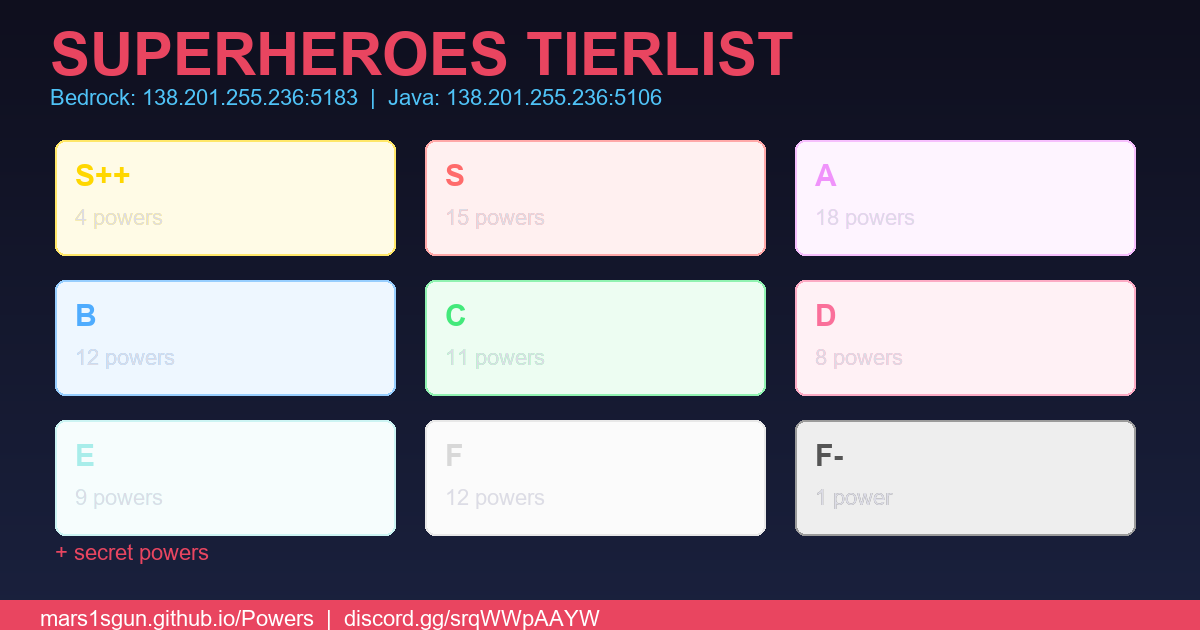
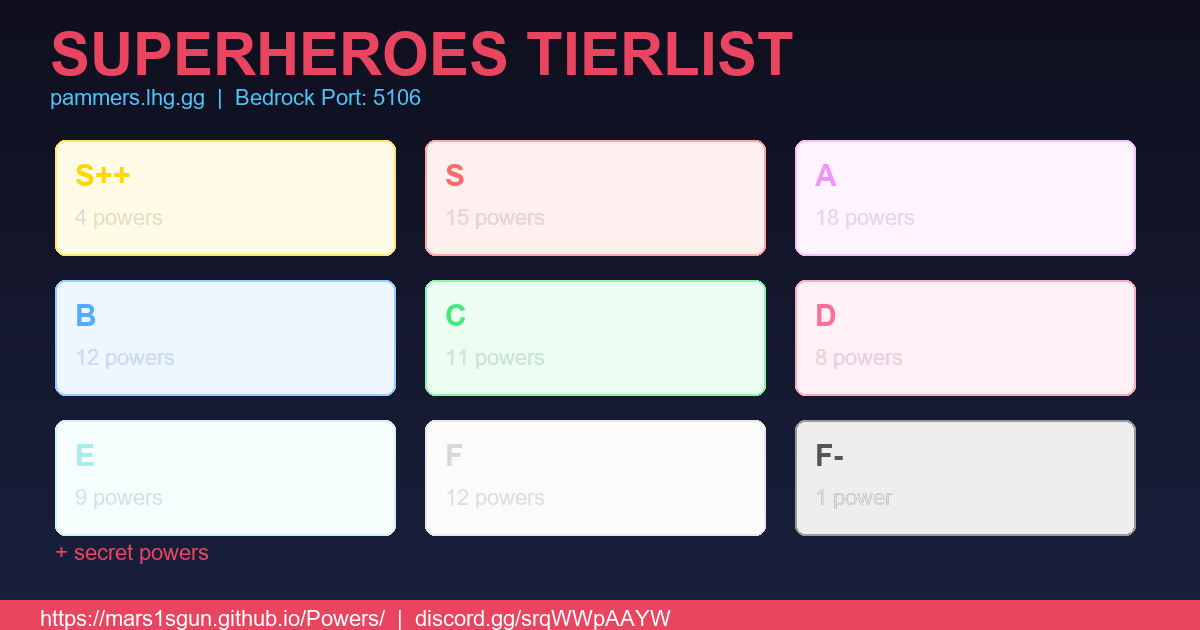
Auto-update from bot

Changed region(s): [[0.0308, 0.1206, 0.555, 0.181], [0.0308, 0.9651, 0.555, 1.0]]

diff --git a/index.html b/index.html
@@ -77,7 +77,7 @@ footer a{color:#b388ff;text-decoration:underline}
 <header>
 <h1>SUPERHEROES TIERLIST</h1>
 <p>All powers ranked — click a tier to expand/collapse</p>
-<p style="margin-top:.5rem;font-size:.9rem;color:#4fc3f7">Bedrock: <b>138.201.255.236</b> port <b>5183</b> &nbsp;|&nbsp; Java: <b>138.201.255.236:5106</b></p>
+<p style="margin-top:.5rem;font-size:.9rem;color:#4fc3f7">Bedrock: <b>pammers.lhg.gg</b> port <b>5106</b> &nbsp;|&nbsp; Java: <b>pammers.lhg.gg:5106</b></p>
 </header>
 <div class="container" id="app"></div>
 <footer>Built by 1sGun &middot; join the discord <a href="https://discord.gg/srqWWpAAYW" target="_blank">https://discord.gg/srqWWpAAYW</a></footer>
